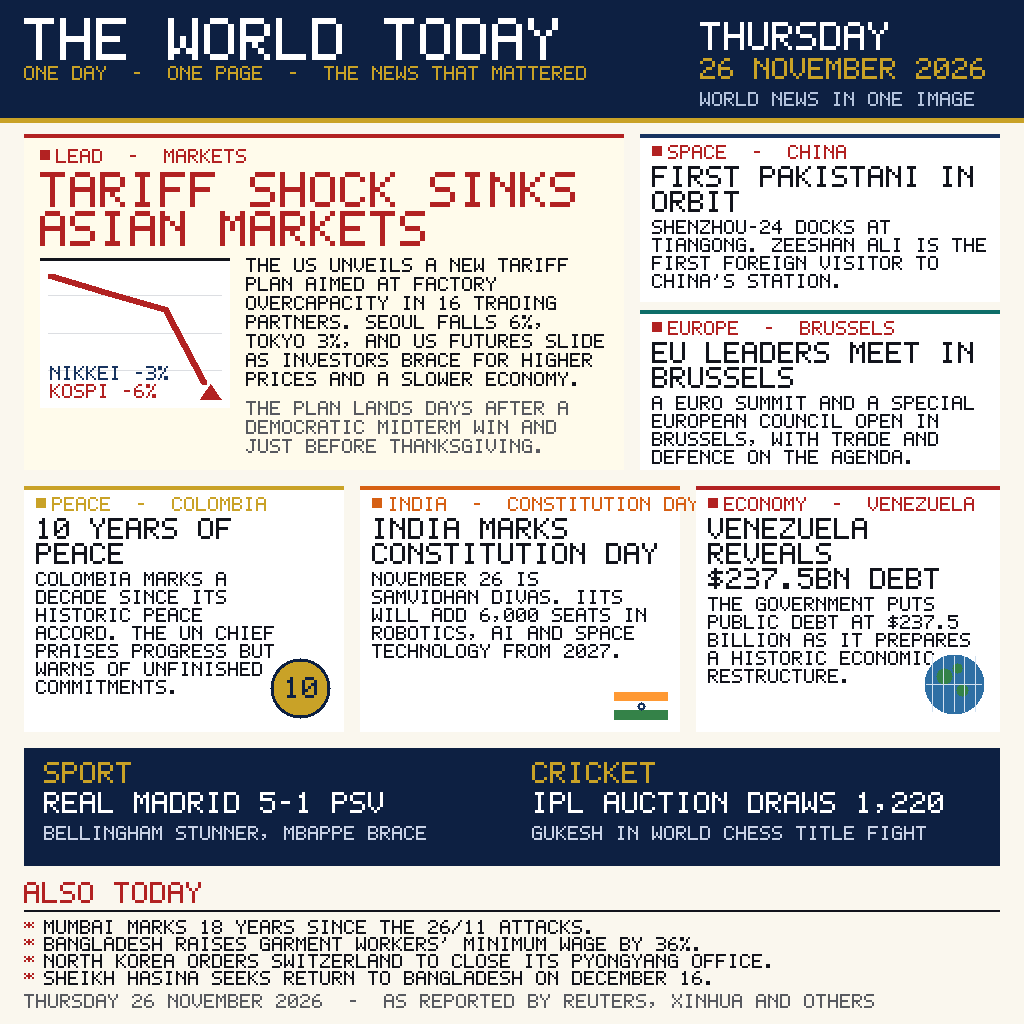
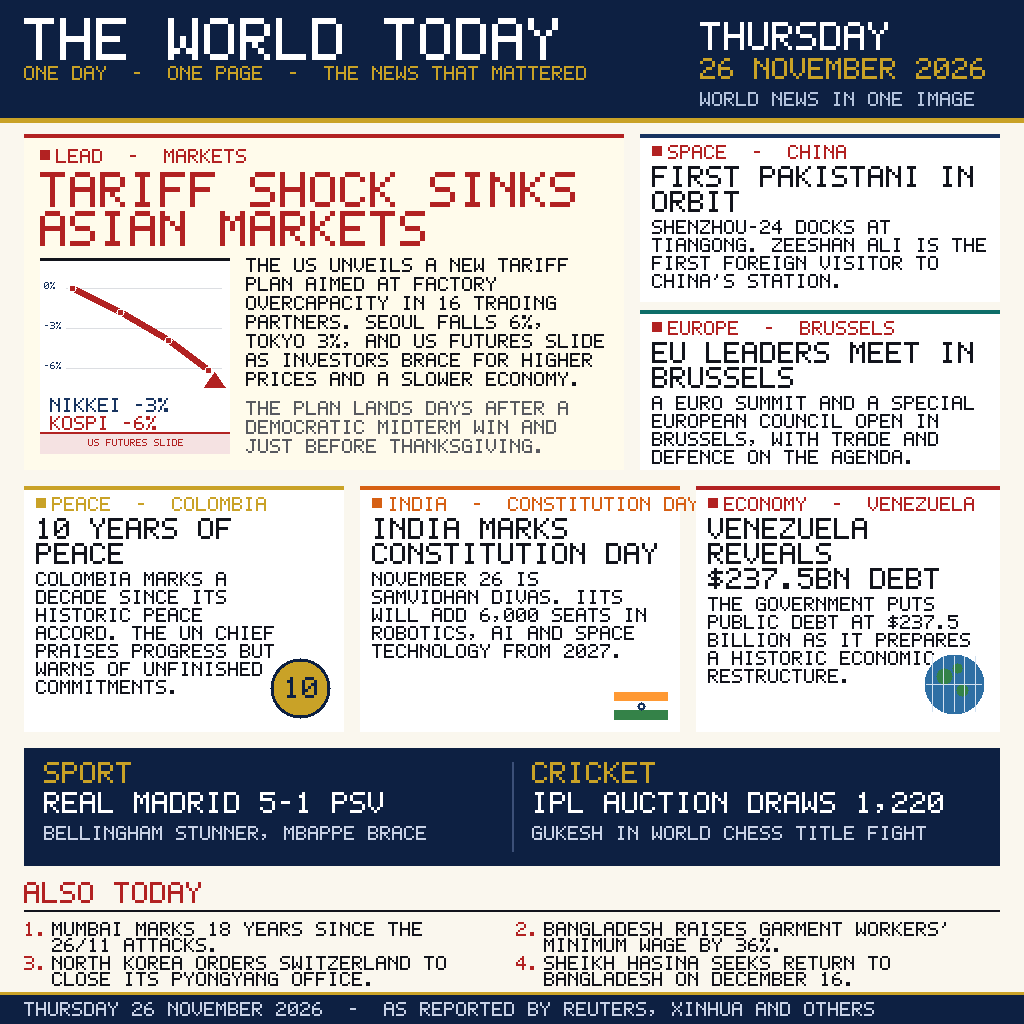
Post-open fixup: redraw lead chart with labelled axis, data dots and US-futures strip; two-column Also Today; navy footer bar; sport divider

Changed region(s): [[0.0, 0.875, 1.0, 1.0], [0.0312, 0.25, 0.2188, 0.4688], [0.8438, 0.9062, 0.875, 0.9375]]

diff --git a/main.py b/main.py
@@ -196,27 +196,42 @@ class Page:
 
 # -------------------------------------------------------------- pictograms
 def draw_falling_chart(pg, x, y, w, h):
-    """Share-price chart falling off a cliff, with a red arrow."""
+    """Share-price chart falling off a cliff, with axes and a futures strip.
+
+    A labelled percentage axis (0% / -3% / -6%) on the left, light grid
+    lines, red dots marking each data point on the falling line, an
+    arrowhead at the end, an index legend, and a strip at the bottom
+    noting that US futures slid ahead of Thanksgiving.
+    """
     pg.box(x, y, w, h, WHITE)
     pg.box(x, y, w, 3, INK)
-    # grid
-    for gy in range(1, 4):
-        pg.hbar(x + 8, y + gy * h // 4, w - 16, (220, 222, 226), 1)
-    # descending line: five segments, steeper each time
-    pts = [(x + 10, y + 18), (x + w // 3, y + 34),
-           (x + 2 * w // 3, y + 52), (x + w - 26, y + h - 26)]
+    # percentage axis: labels on the left, grid lines across
+    axis = [("0%", 24), ("-3%", 64), ("-6%", 104)]
+    for label, dy in axis:
+        pg.draw_text(x + 4, y + dy, label, 1, NAVY2)
+        pg.hbar(x + 26, y + dy + 6, w - 34, (220, 222, 226), 1)
+    # descending line: four points, steeper each time, dots on each point
+    pts = [(x + 32, y + 30), (x + 80, y + 54),
+           (x + 128, y + 82), (x + 168, y + 112)]
     for (ax, ay), (bx, by) in zip(pts, pts[1:]):
         steps = max(abs(bx - ax), abs(by - ay), 1)
         for i in range(steps + 1):
             px = ax + (bx - ax) * i // steps
             py = ay + (by - ay) * i // steps
             pg.box(px - 2, py - 2, 5, 5, RED)
-    # arrowhead at the end
+    for px, py in pts:
+        pg.disc(px, py, 4, RED)
+        pg.ring(px, py, 4, WHITE, 1)
+    # arrowhead at the end, pointing down and right
     ex, ey = pts[-1]
     pg.tri(ex - 4, ey + 2, 22, 16, RED)
-    # index labels, bottom-left, clear of the falling line
-    pg.draw_text(x + 10, y + h - 42, "NIKKEI -3%", 2, NAVY2)
-    pg.draw_text(x + 10, y + h - 24, "KOSPI -6%", 2, RED)
+    # index legend, bottom-left, clear of the falling line and the strip
+    pg.draw_text(x + 10, y + h - 56, "NIKKEI -3%", 2, NAVY2)
+    pg.draw_text(x + 10, y + h - 38, "KOSPI -6%", 2, RED)
+    # futures strip along the bottom of the chart
+    pg.box(x, y + h - 22, w, 22, (245, 226, 226))
+    pg.hbar(x, y + h - 22, w, RED, 2)
+    pg.draw_centred(x + w // 2, y + h - 15, "US FUTURES SLIDE", 1, RED)
 
 
 def draw_ten_badge(pg, cx, cy, r):
@@ -267,7 +282,7 @@ def build():
     pg.box(lx, ly, lw, 4, RED)
     kicker(pg, lx + 16, ly + 16, "LEAD  -  MARKETS")
     y = pg.headline(lx + 16, ly + 38, lw - 32, "TARIFF SHOCK SINKS ASIAN MARKETS", 5, RED)
-    draw_falling_chart(pg, lx + 16, y + 8, 190, 150)
+    draw_falling_chart(pg, lx + 16, y + 8, 190, 196)
     tx = lx + 222
     yy = pg.body(tx, y + 8,
                  "THE US UNVEILS A NEW TARIFF PLAN AIMED AT FACTORY "
@@ -351,6 +366,7 @@ def build():
     pg.draw_text(44, sy + 44, "REAL MADRID 5-1 PSV", 3, WHITE)
     pg.draw_text(44, sy + 78, "BELLINGHAM STUNNER, MBAPPE BRACE", 2,
                  (200, 210, 230))
+    pg.vbar(512, sy + 14, sh - 28, (60, 80, 120), 2)
     pg.draw_text(532, sy + 14, "CRICKET", 3, GOLD)
     pg.draw_text(532, sy + 44, "IPL AUCTION DRAWS 1,220", 3, WHITE)
     pg.draw_text(532, sy + 78, "GUKESH IN WORLD CHESS TITLE FIGHT", 2,
@@ -366,16 +382,20 @@ def build():
         "NORTH KOREA ORDERS SWITZERLAND TO CLOSE ITS PYONGYANG OFFICE.",
         "SHEIKH HASINA SEEKS RETURN TO BANGLADESH ON DECEMBER 16.",
     ]
-    yy = ay + 38
-    for b in briefs:
-        pg.draw_text(24, yy, "*", 2, RED)
-        pg.draw_text(44, yy, b, 2, INK)
-        yy += 17
+    # numbered briefs in two columns, wrapped so each takes two lines
+    for i, b in enumerate(briefs):
+        cx = 24 if i % 2 == 0 else 516
+        cy = ay + 40 + (i // 2) * 34
+        pg.draw_text(cx, cy, str(i + 1) + ".", 2, RED)
+        pg.body(cx + 28, cy, b, 2, INK, 36, 16)
 
-    pg.draw_text(24, 994,
+    # ---- footer bar ------------------------------------------------------
+    pg.box(0, 992, W, 32, NAVY)
+    pg.box(0, 992, W, 3, GOLD)
+    pg.draw_text(24, 1002,
                  "THURSDAY 26 NOVEMBER 2026  -  AS REPORTED BY REUTERS, "
                  "XINHUA AND OTHERS",
-                 2, GREY)
+                 2, (200, 210, 230))
     return pg
 
 
